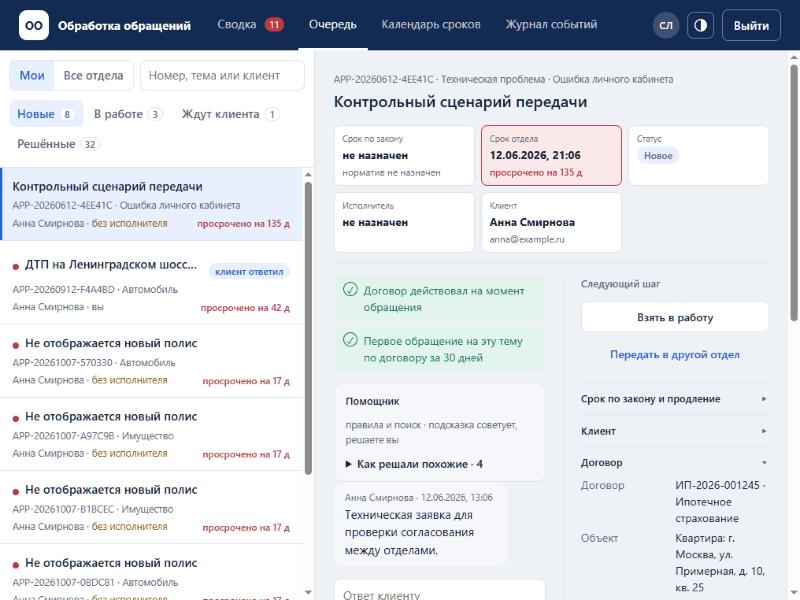
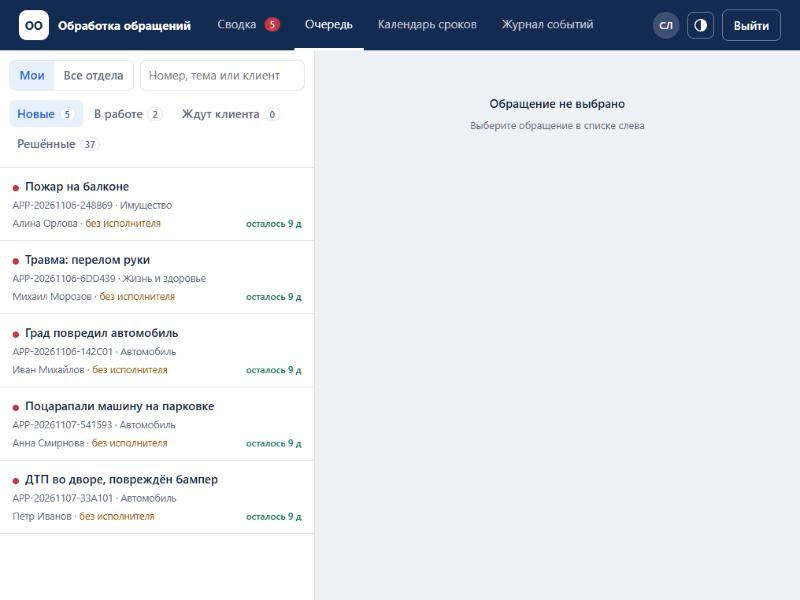
feat: стенд к показу, реалистичные сроки отделов, CI и покрытие тестами
Очередь специалиста выглядела почти целиком просроченной. Причины и исправления
(решение 50):
- сроки отделов были 8–48 часов, это срок реакции, а не ответа по существу;
  миграция V30 ставит урегулированию 10 дней, техподдержке 3, остальным 7, в
  пределах закона, с записью в журнал настроек;
- генератор демо-данных назначал время ответа от срока по закону; теперь отделы
  обычно отвечают в свой срок, около 6 % решённых опаздывают по закону;
- демо-данные стареют, копятся остатки проверок: scripts/prepare_demo.py делает
  копию, чистит обращения и журнал событий о них, создаёт данные на сегодня и
  подаёт через API живые обращения клиентов.

Снимки 01, 02, 06 в docs/ui-after пересняты на подготовленном стенде.

CI (решение 51): GitHub Actions прогоняет все тесты на каждый коммит в main,
JaCoCo считает покрытие, итог в сводке прогона, значок в README. Агент JaCoCo
подключён через argLine с относительным путём: абсолютный путь с кириллицей
портится в аргументе JVM на Windows.

diff --git a/scripts/prepare_demo.py b/scripts/prepare_demo.py
@@ -1,0 +1,160 @@
+"""
+Подготовить стенд к показу: защита, снимки экрана, тест удобства (решение 50).
+
+    python scripts/prepare_demo.py              # сначала резервная копия, потом подготовка
+    python scripts/prepare_demo.py --no-backup
+
+Демонстрационные данные создаются на дату первого запуска (решение 33) и со временем
+стареют: через месяц открытые обращения в очереди выглядят просроченными на недели, хотя
+отдел ничего не нарушал. Остатки ручных проверок и экспериментов тоже копятся в очередях
+и в журнале событий. Скрипт возвращает стенд в состояние «как будто сегодня»:
+
+1. Резервная копия (scripts/backup.py), чтобы прежнее состояние можно было вернуть.
+2. Удаляет все обращения: демонстрационные и созданные вручную, скриптами экспериментов и
+   нагрузочным тестом. Вместе с ними уходят записи журнала событий и outbox, которые
+   ссылаются на удалённые обращения. Справочники, правила и настройки не трогаются.
+3. Перезапускает приложение: генератор заново создаёт 300 обращений за полгода до
+   сегодняшнего дня, открытые снова в сроке.
+4. От имени клиентов Анны и Петра подаёт через API несколько обращений с датами
+   относительно сегодняшнего дня. Они проходят настоящий путь: регистрация, outbox,
+   RabbitMQ, маршрутизация в отдел.
+5. Печатает итог: сколько обращений, сколько открытых с нарушенным сроком по закону.
+
+Нужны запущенный стенд (docker compose up -d) и Python 3, сторонние пакеты не нужны.
+"""
+import json
+import subprocess
+import sys
+import time
+import urllib.error
+import urllib.parse
+import urllib.request
+from datetime import date, timedelta
+from pathlib import Path
+
+ROOT = Path(__file__).resolve().parent.parent
+sys.path.insert(0, str(ROOT / "experiments"))
+import stand  # noqa: E402  общие адреса стенда и вызовы docker compose
+
+TODAY = date.today()
+
+
+def day(offset):
+    return (TODAY + timedelta(days=offset)).isoformat()
+
+
+# Обращения клиентов из кабинета: договоры из заглушки учётной системы (contracts-stub)
+LIVE_APPEALS = [
+    ("anna", {"contractId": "22222222-2222-2222-2222-222222222222", "category": "COMPLAINT",
+              "subcategory": "PRETENSION",
+              "details": {"violationDate": day(-12), "claimAmount": "85000",
+                          "desiredOutcome": "Пересчитать и доплатить возмещение"},
+              "subject": "Не согласна с суммой выплаты по КАСКО",
+              "description": "Выплата занижена: оценка не учла замену фары. Прошу пересчитать."}),
+    ("anna", {"contractId": "22222222-2222-2222-2222-222222222222", "category": "CLAIM",
+              "subcategory": "AUTO",
+              "details": {"incidentDate": day(-3), "policyNumber": "КАСКО-2026-004821",
+                          "incidentPlace": "г. Москва, ул. Тверская, д. 7, парковка"},
+              "subject": "Поцарапали машину на парковке",
+              "description": "Вернулась к машине: царапина на двери и разбито зеркало. "
+                             "Виновник не найден, вызывала полицию."}),
+    ("anna", {"contractId": "21111111-1111-1111-1111-111111111111", "category": "TECHNICAL",
+              "subcategory": "LOGIN",
+              "details": {"systemSection": "Личный кабинет", "device": "Android, Chrome",
+                          "errorText": "Неверный код подтверждения"},
+              "subject": "Не приходит код входа в личный кабинет",
+              "description": "Утром пытаюсь войти в личный кабинет, код из SMS не принимается. "
+                             "Перезапрашивала три раза."}),
+    ("petr", {"contractId": stand.CONTRACT, "category": "CLAIM", "subcategory": "AUTO",
+              "details": {"incidentDate": day(-2), "incidentPlace": "г. Москва, ул. Профсоюзная, д. 12, двор"},
+              "subject": "ДТП во дворе, повреждён бампер",
+              "description": "При выезде с парковки во дворе задел соседний автомобиль. "
+                             "Оформили европротокол, фото приложу."}),
+]
+
+
+def sql(query):
+    return stand.sql(query)
+
+
+def login(user):
+    form = urllib.parse.urlencode({"client_id": "appeals-experiments", "grant_type": "password",
+                                   "username": user, "password": stand.PASSWORD, "scope": "openid"}).encode()
+    with urllib.request.urlopen(f"{stand.KEYCLOAK}/realms/insurer/protocol/openid-connect/token", form) as response:
+        return json.load(response)["access_token"]
+
+
+def submit(token, body):
+    request = urllib.request.Request(stand.APP + "/api/appeals", method="POST", data=json.dumps(body).encode(),
+                                     headers={"Authorization": "Bearer " + token,
+                                              "Content-Type": "application/json"})
+    try:
+        with urllib.request.urlopen(request, timeout=30) as response:
+            return response.status, json.load(response)
+    except urllib.error.HTTPError as error:
+        return error.code, json.loads(error.read() or b"{}")
+
+
+def app_ready():
+    try:
+        with urllib.request.urlopen(stand.APP + "/", timeout=5) as response:
+            return response.status == 200
+    except (urllib.error.URLError, ConnectionError, TimeoutError):
+        return False
+
+
+def wait(what, predicate, limit_s):
+    took = stand.wait_until(predicate, limit_s, step_s=2)
+    if took is None:
+        sys.exit(f"Не дождались: {what} за {limit_s} с. Проверьте docker compose logs app.")
+    print(f"  {what}: {took} с")
+
+
+def main():
+    if not app_ready():
+        sys.exit("Стенд не отвечает на " + stand.APP + ": сначала docker compose up -d")
+
+    if "--no-backup" not in sys.argv:
+        print("1. Резервная копия")
+        subprocess.run([sys.executable, str(ROOT / "scripts" / "backup.py")], cwd=ROOT, check=True)
+    else:
+        print("1. Резервная копия пропущена (--no-backup)")
+
+    before = sql("select count(*) filter (where demo), count(*) filter (where not demo) from appeal")
+    print(f"2. Удаляем обращения (демонстрационных | остальных: {before.replace('|', ' | ')})")
+    sql("delete from appeal")
+    sql("delete from staff_member where subject like 'demo-%'")
+    sql("delete from event_audit e where not exists (select 1 from appeal a where a.id = e.appeal_id)")
+    sql("delete from outbox_event o where not exists (select 1 from appeal a where a.id = o.appeal_id)")
+
+    print("3. Перезапуск приложения, генератор создаёт демонстрационные данные на сегодня")
+    stand.compose("restart", "app")
+    wait("приложение поднялось", app_ready, 240)
+    wait("демонстрационные обращения созданы",
+         lambda: int(sql("select count(*) from appeal where demo")) >= 300, 240)
+
+    print("4. Обращения клиентов через API")
+    created = []
+    tokens = {}
+    for user, body in LIVE_APPEALS:
+        tokens.setdefault(user, login(user))
+        status, payload = submit(tokens[user], body)
+        if status >= 300:
+            sys.exit(f"  {user}: «{body['subject']}» не принято, код {status}: {payload}")
+        created.append(payload["id"])
+        print(f"  {user}: {payload.get('publicNumber', payload['id'])} «{body['subject']}»")
+    ids = ", ".join(f"'{appeal_id}'" for appeal_id in created)
+    wait("все обращения клиентов маршрутизированы",
+         lambda: int(sql(f"select count(*) from appeal where id in ({ids}) and status <> 'PENDING_ROUTING'"))
+         == len(created), 60)
+
+    total, open_count, overdue = sql("""
+        select count(*), count(*) filter (where status not in ('RESOLVED', 'CLOSED')),
+               count(*) filter (where status not in ('RESOLVED', 'CLOSED') and legal_deadline < current_date)
+        from appeal""").split("|")
+    print(f"5. Готово на {TODAY:%d.%m.%Y}: обращений {total}, открытых {open_count}, "
+          f"открытых с нарушенным сроком по закону {overdue}")
+
+
+if __name__ == "__main__":
+    main()

diff --git a/src/main/java/ru/mtuci/appeals/demo/DemoDataGenerator.java b/src/main/java/ru/mtuci/appeals/demo/DemoDataGenerator.java
@@ -315,13 +315,18 @@ public class DemoDataGenerator {
             }
         }
 
-        // ответ по существу: обычно в срок, иногда с опозданием, для аналитики соблюдения сроков
+        // ответ по существу, как в отделе с налаженной работой: обычно в срок отдела, часть около
+        // него (опоздание по сроку отдела, но в сроке по закону), около 8 % с нарушением срока по
+        // закону, для аналитики соблюдения сроков (решения 33, 50)
         LocalDate deadline = appeal.getLegalDeadline();
         int span = Math.max(1, calendar.workingDaysAfter(registeredOn, deadline));
+        LocalDate departmentDay = LocalDate.ofInstant(appeal.getDeadlineAt(), zone);
+        int departmentSpan = Math.max(1, Math.min(span, calendar.workingDaysAfter(registeredOn, departmentDay)));
         double share = random.nextDouble();
-        double part = share < 0.68 ? 0.15 + random.nextDouble() * 0.5
-                : share < 0.92 ? 0.65 + random.nextDouble() * 0.33 : 1.05 + random.nextDouble() * 0.45;
-        LocalDate resolveDay = calendar.addWorkingDays(registeredOn, Math.max(1, (int) Math.round(span * part)));
+        int days = share < 0.72 ? (int) Math.round(departmentSpan * (0.2 + random.nextDouble() * 0.75))
+                : share < 0.92 ? (int) Math.round(Math.min(span * 0.98, departmentSpan * (0.95 + random.nextDouble() * 0.6)))
+                : (int) Math.round(span * (1.05 + random.nextDouble() * 0.45));
+        LocalDate resolveDay = calendar.addWorkingDays(registeredOn, Math.max(1, days));
         Instant resolveAt = workingTime(resolveDay, random);
         if (!time.until(resolveAt.isAfter(time.at) ? resolveAt : time.at.plus(Duration.ofHours(2)))) {
             return number;

diff --git a/src/test/java/ru/mtuci/appeals/AppealRoutingTest.java b/src/test/java/ru/mtuci/appeals/AppealRoutingTest.java
@@ -39,12 +39,12 @@ class AppealRoutingTest extends IntegrationTest {
 
         AppealDetailResponse routed = awaitRouted(created.id());
 
-        // правило CLAIM / GENERAL: урегулирование убытков, высокий приоритет, срок 8 часов
+        // правило CLAIM / GENERAL: урегулирование убытков, высокий приоритет, срок отдела 10 дней
         assertThat(routed.status()).isEqualTo(AppealStatus.ROUTED);
         assertThat(routed.department().code()).isEqualTo("CLAIMS");
         assertThat(routed.priority()).isEqualTo(AppealPriority.HIGH);
         assertThat(Duration.between(routed.createdAt(), routed.deadlineAt()))
-                .isCloseTo(Duration.ofHours(8), Duration.ofMinutes(1));
+                .isCloseTo(Duration.ofHours(240), Duration.ofMinutes(1));
 
         await().atMost(Duration.ofSeconds(10)).untilAsserted(() ->
                 assertThat(auditedEvents(created.id()))

diff --git a/src/test/java/ru/mtuci/appeals/SettingsTest.java b/src/test/java/ru/mtuci/appeals/SettingsTest.java
@@ -88,7 +88,7 @@ class SettingsTest extends IntegrationTest {
         assertThat(response.getStatusCode()).isEqualTo(HttpStatus.BAD_REQUEST);
         assertThat(response.getBody().message()).contains("не больше 312 ч").contains("15 раб. дн.");
         assertThat(rule(as(ADMIN).getForObject("/api/admin/routing-rules", RoutingSettingsResponse.class),
-                "TECHNICAL", "GENERAL").slaHours()).isEqualTo(12);
+                "TECHNICAL", "GENERAL").slaHours()).isEqualTo(72);
     }
 
     @Test

diff --git a/docs/ui-after/README.md b/docs/ui-after/README.md
@@ -1,5 +1,8 @@
 # Интерфейс: стало (26.10.2026)
 
+Снимки 01, 02 и 06 пересняты 07.11.2026 после подготовки стенда к показу (решение 50): на
+прежних очередь была красной от остатков ручных проверок и слишком коротких сроков отделов.
+
 Снимки для раздела 4 и слайдов: пары «было/стало» с `docs/ui-before` (07.10.2026) идут под
 теми же номерами 01–05. Стенд с демонстрационными данными (решение 33): все клиенты,
 договоры и обращения вымышленные, на рисунках это стоит указать.
